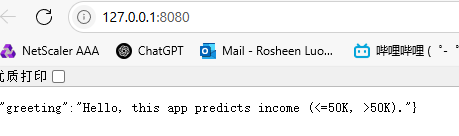
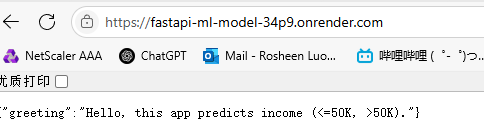
update app_url and fix incorrect model name

diff --git a/render_call_api.py b/render_call_api.py
@@ -21,10 +21,10 @@ features = {
     "native-country": "United-States"
 }
 
-app_url = "https://deploying-ml-model-to-cloud-application.onrender.com/predict"
+app_url = "https://fastapi-ml-model-34p9.onrender.com/predict"
 
 response = requests.post(app_url, json=features)
 
 logging.info("Sending POST request to Render app")
 logging.info(f"Status code: {response.status_code}")
-logging.info(f"Response: {response.json()}")
+logging.info(f"Response text: {response.text}")

diff --git a/main.py b/main.py
@@ -83,7 +83,7 @@ async def predict(input: ModelInput):
     input_df = pd.DataFrame([[input_dict[feat] for feat in features]], columns=features)
 
     # Load model and transformers
-    model = joblib.load("model/model.pkl")
+    model = joblib.load("model/rf_model.pkl")
     encoder = joblib.load("model/encoder.pkl")
     lb = joblib.load("model/lb.pkl")
 
